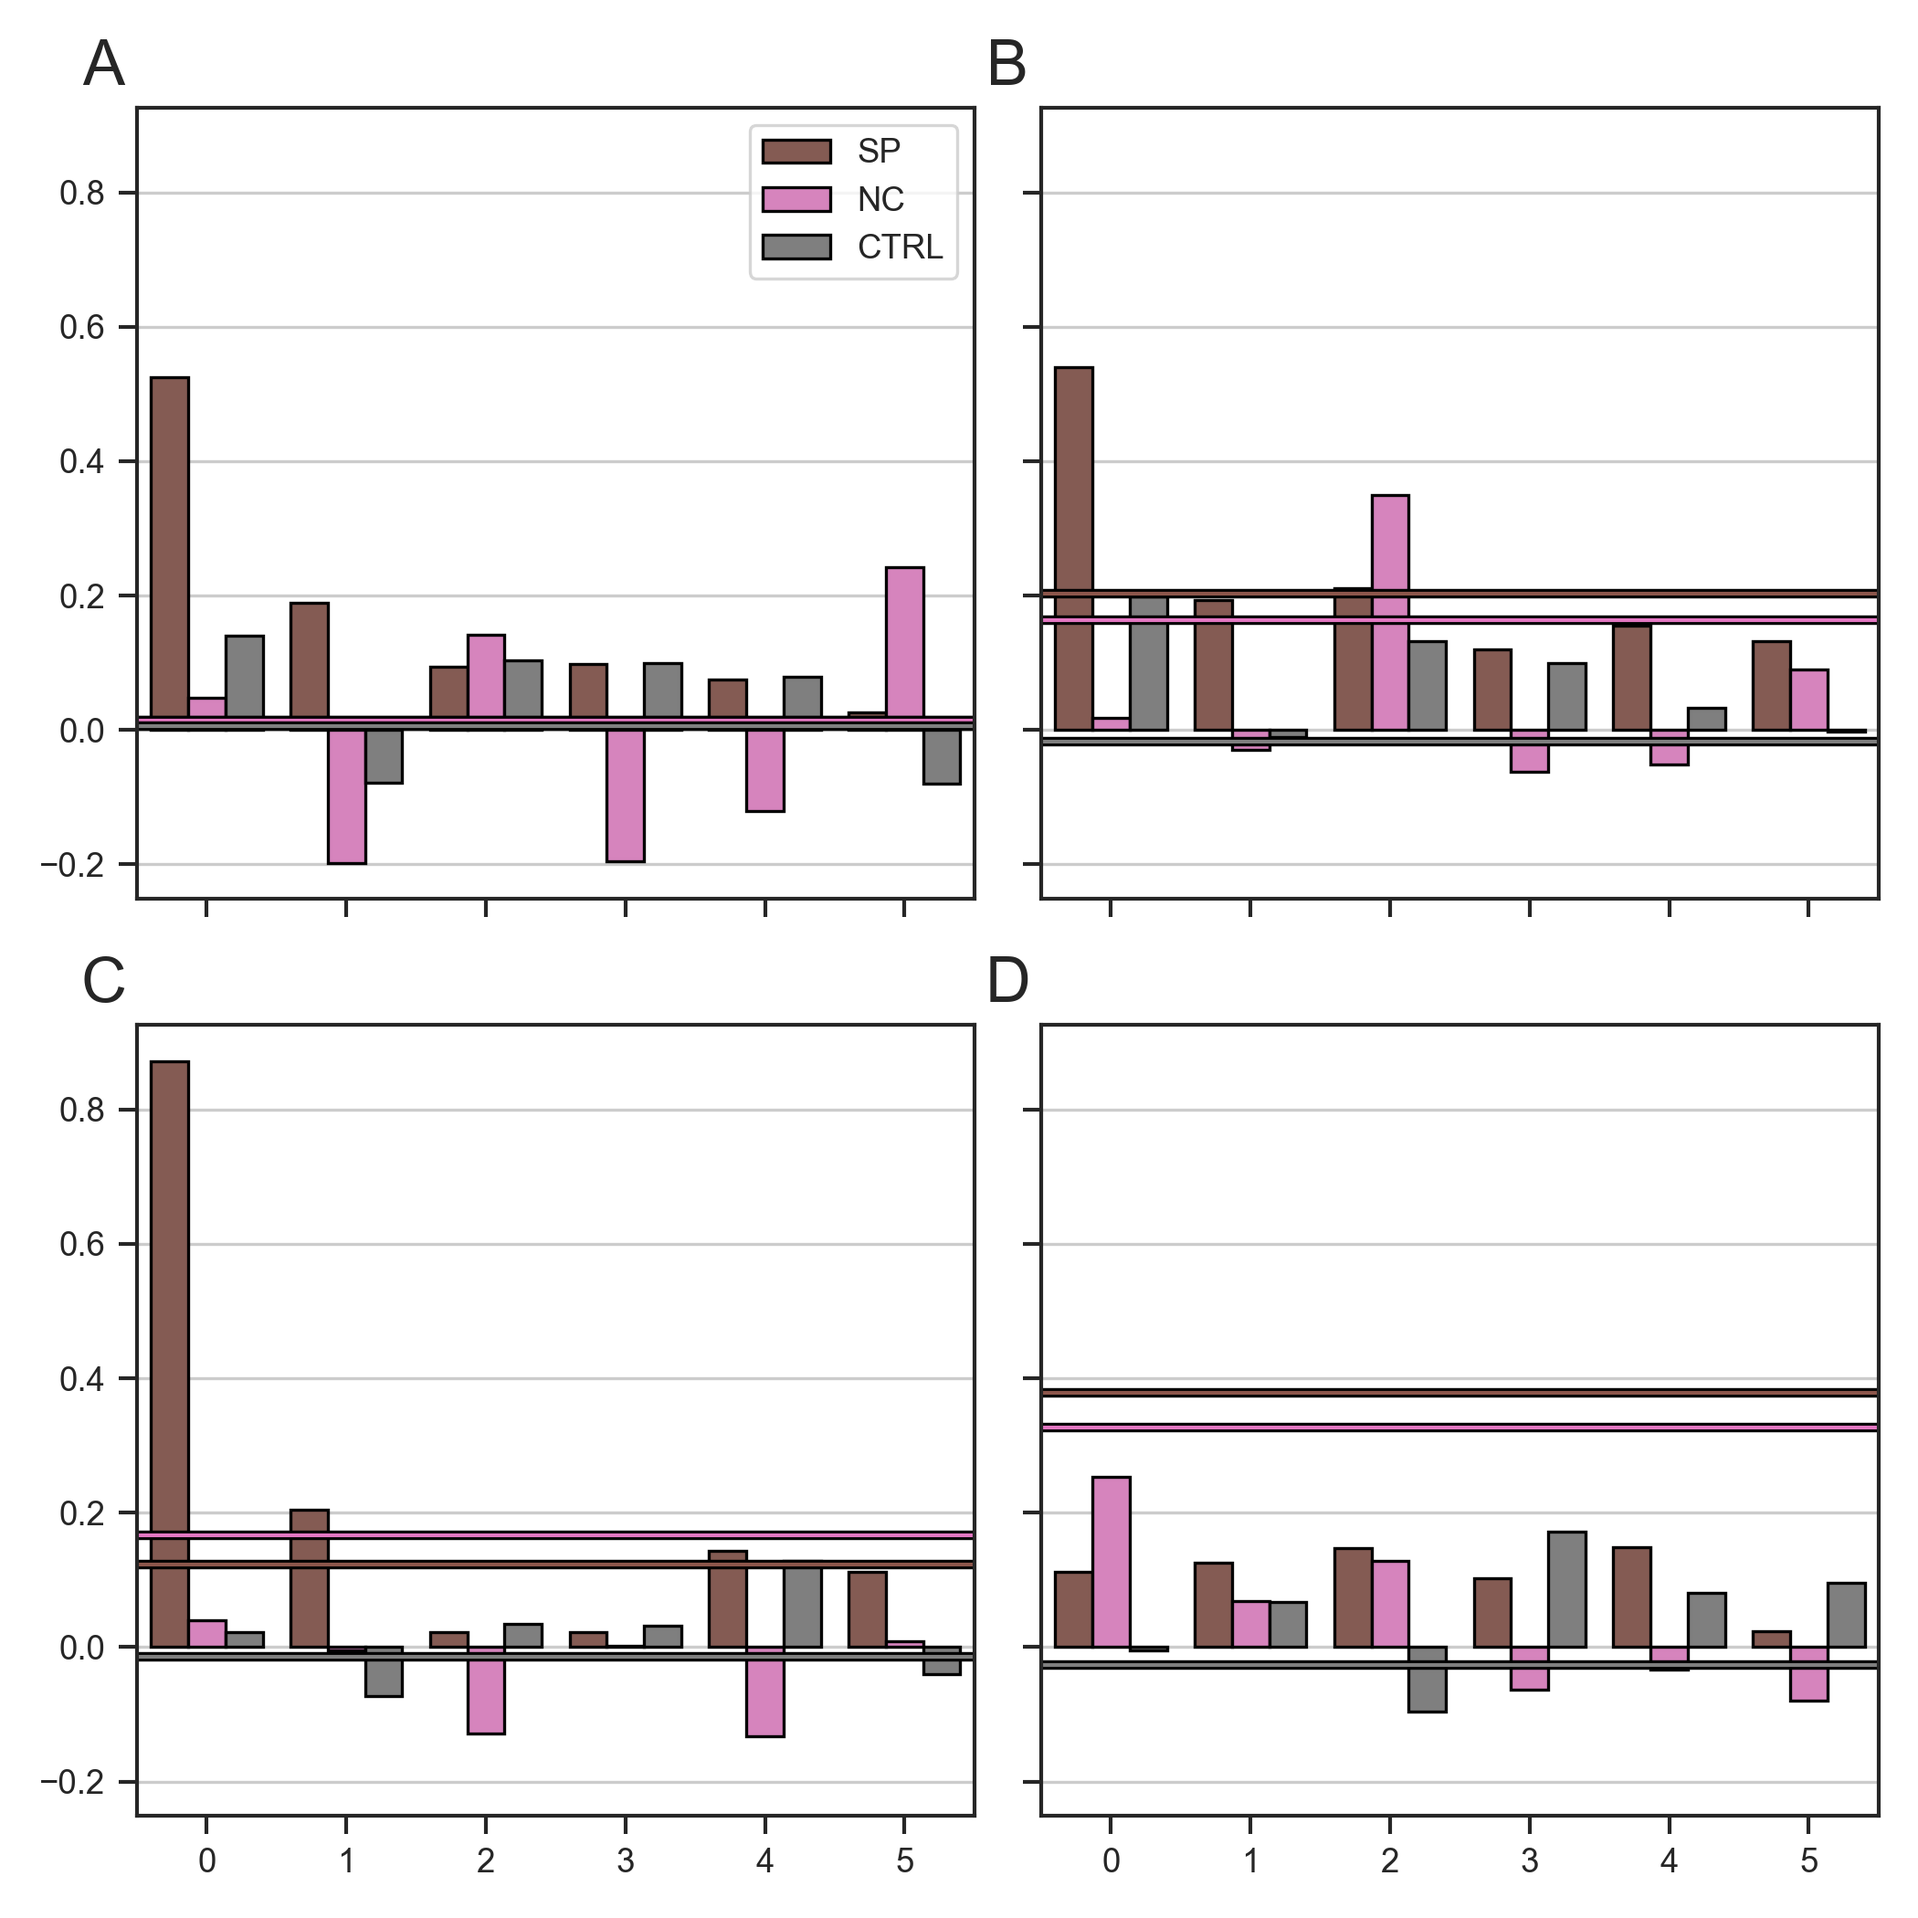
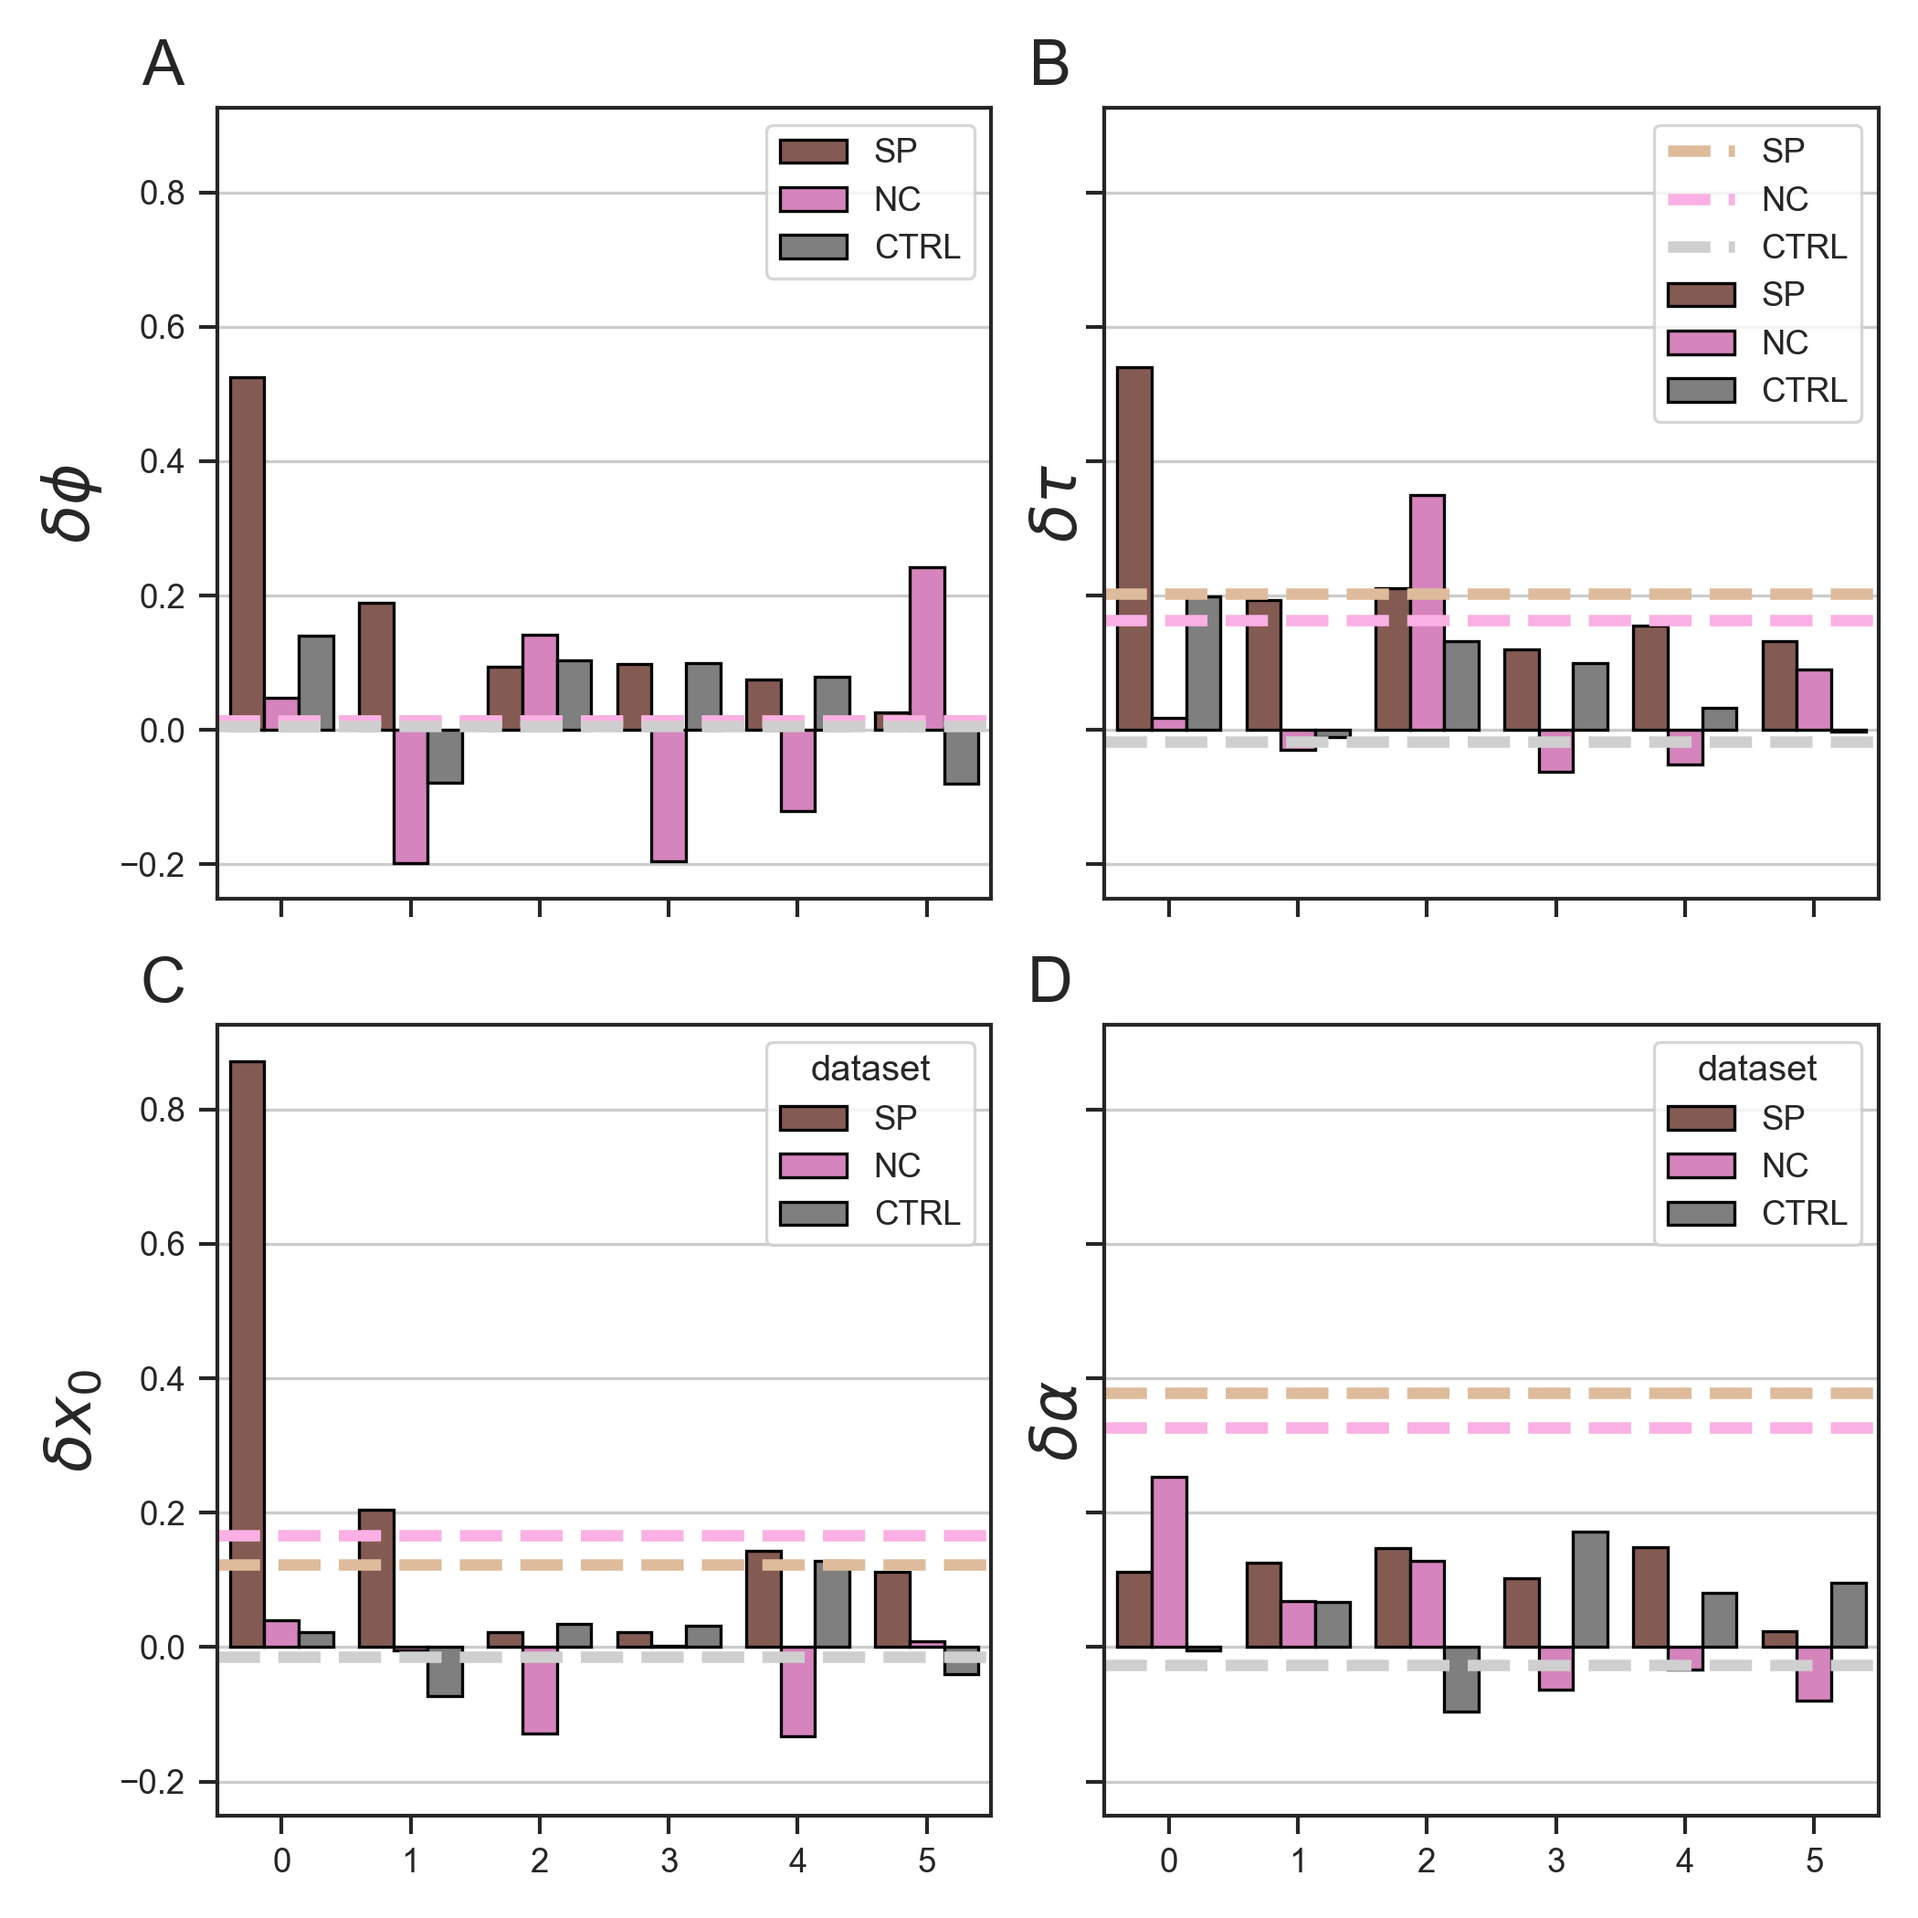
First Git

diff --git a/Plotting/pair_gen_specific_figures.py b/Plotting/pair_gen_specific_figures.py
@@ -14,43 +14,47 @@ from CustomFuncsAndVars.global_variables import phenotypic_variables, symbols, c
 
 
 cmap = sns.color_palette('tab10')[5:8]
+cmap_dark = sns.color_palette('pastel')[5:8]
 
 
-def plot_panel(var_a, var_b, ax):
+def plot_panel(var_a, var_b, count1, ax):
     # The constant
     df = pair_correlation[(pair_correlation['kind'] == 'time_averages') & (pair_correlation['variable_a'] == var_a) & (pair_correlation['variable_b'] == var_b)].copy()
+
+    sns.barplot(data=pair_correlation[(pair_correlation['kind'] == 'trace_centered') & (pair_correlation['variable_a'] == var_a) & (pair_correlation['variable_b'] == var_b)], x='generation',
+                y='correlation', hue='dataset', palette=cmap, edgecolor='black', ax=ax)
+    
+    ax.get_legend().remove()
     
     # Plot the constant impact of the time-average in the
     for count, hue in enumerate(datasets):
         
         # first line is for a makeshift border, otherwise it is difficult to see the horizontal lines with the same colors as the barplots
-        ax.axhline(np.unique(df[df['dataset'] == hue]['correlation']), ls='-', color='black', linewidth=2.5)
-        ax.axhline(np.unique(df[df['dataset'] == hue]['correlation']), ls='-', color=cmap[count], linewidth=1)
-    
-    sns.barplot(data=pair_correlation[(pair_correlation['kind'] == 'trace_centered') & (pair_correlation['variable_a'] == var_a) & (pair_correlation['variable_b'] == var_b)], x='generation',
-                y='correlation', hue='dataset', palette=cmap, edgecolor='black', ax=ax)
+        # ax.axhline(np.unique(df[df['dataset'] == hue]['correlation'])+.01, ls='--', color='black', linewidth=2)
+        # ax.axhline(np.unique(df[df['dataset'] == hue]['correlation'])-.01, ls='--', color='black', linewidth=2)
+        if count1 == 1:
+            ax.axhline(np.unique(df[df['dataset'] == hue]['correlation']), ls='--', color=cmap_dark[count], linewidth=3, label=hue)
+        else:
+            ax.axhline(np.unique(df[df['dataset'] == hue]['correlation']), ls='--', color=cmap_dark[count], linewidth=3)
     
     
 def plot_main_figure():
     seaborn_preamble()
     fig, axes = plt.subplots(2, 2, tight_layout=True, figsize=[7, 7], sharey=True, sharex=True)
     axes = axes.flatten()
-    for count, var_a in enumerate(['fold_growth', 'generationtime', 'length_birth', 'growth_rate']):
+    for count1, var_a in enumerate(['fold_growth', 'generationtime', 'length_birth', 'growth_rate']):
         var_b = var_a
-        ax = axes[count]
-        plot_panel(var_a, var_b, ax)
+        ax = axes[count1]
+        plot_panel(var_a, var_b, count1, ax)
         ax.set_xlabel('')
-        ax.set_ylabel('')
-        ax.set_title('{}'.format(symbols['physical_units'][var_a]))
+        ax.set_ylabel(symbols['trace_centered'][var_a], fontsize='xx-large')
 
         # Let's put the titles
-        ax.set_title(uppercase_letters[count], x=-0.04, fontsize='xx-large')
+        ax.set_title(uppercase_letters[count1], x=-0.07, fontsize='xx-large')
         
         # the legend
-        if count == 0:
+        if count1 in [0, 1]:
             ax.legend(title='')
-        else:
-            ax.get_legend().remove()
     
     plt.savefig('{}/gen_specific_main_figure.png'.format(args.figs_location), dpi=300)
     # plt.show()
@@ -108,5 +112,7 @@ pair_correlation = pd.read_csv('{}/over_lineages.csv'.format(args.save_folder))
 
 
 plot_main_figure()
+
+exit()
 
 plot_three_in_one()
